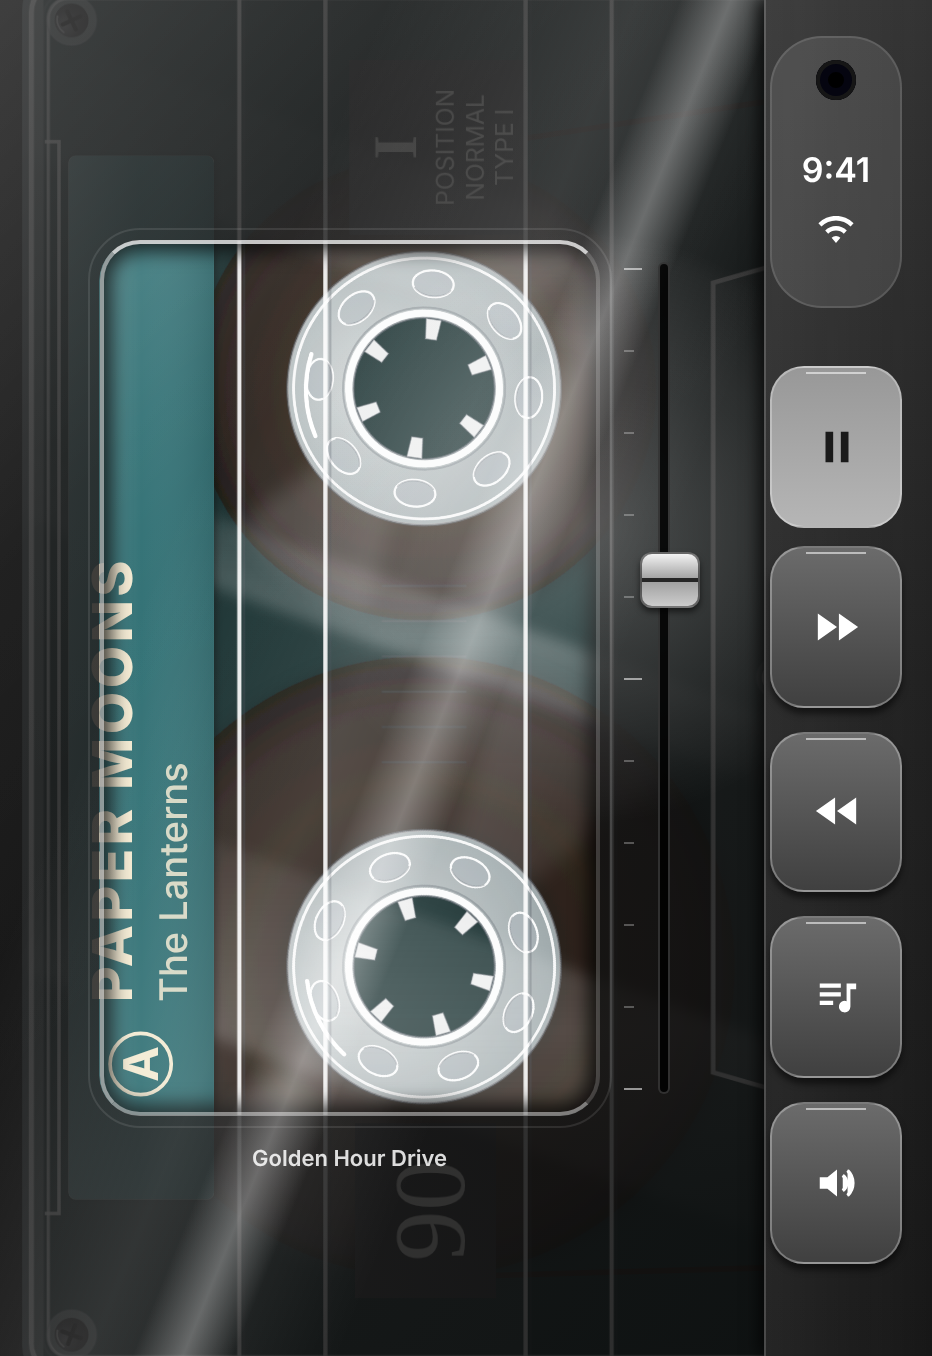
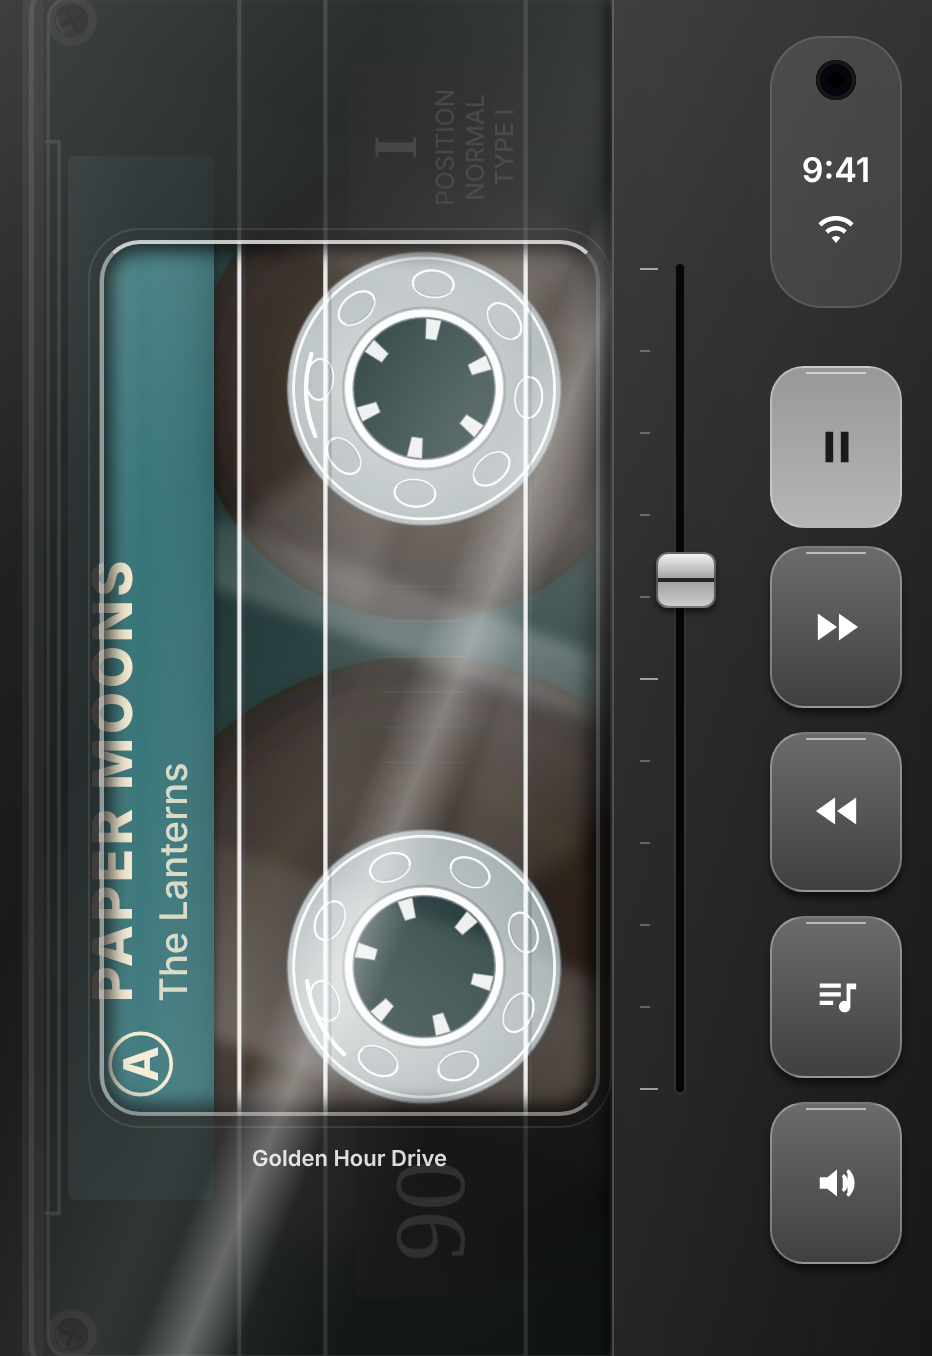
Widen the solid panel to carry the volume fader
The panel now starts just past the tape window, with the fader on it
beside the keys.

Claude-Session: https://claude.ai/code/session_015CNmSEpanpmujmbPK8yXHv

Changed region(s): [[0.6223, 0.0, 0.8401, 0.8053], [0.809, 0.5575, 0.8401, 0.7434]]

diff --git a/TapeDeck/DeckView.swift b/TapeDeck/DeckView.swift
@@ -38,6 +38,10 @@ struct DeckView: View {
             let full = CGSize(width: geo.size.width + insets.leading + insets.trailing,
                               height: geo.size.height + insets.top + insets.bottom)
             let window = windowRect(in: full)
+            // The solid side of the case starts just past the tape window and
+            // runs to the edge, so it carries the volume fader and the keys.
+            let column = rail ? max(insets.leading, insets.trailing) : stripWidth + insets.trailing
+            let panelWidth = max(column, railLeading ? window.minX - 6 : full.width - window.maxX - 6)
             HStack(spacing: 0) {
                 if railLeading { keyColumn(insets: insets, rail: true, leading: true) }
                 // The face itself is drawn in the background, full screen.
@@ -58,6 +62,9 @@ struct DeckView: View {
                     Color(white: 0.03)
                     tapeUnderCasing
                     clearCase
+                    casePanel(seamOnLeading: !railLeading)
+                        .frame(width: panelWidth)
+                        .frame(maxWidth: .infinity, alignment: railLeading ? .leading : .trailing)
                 }
             )
             // Under the window: the song that is playing on an album tape
@@ -75,11 +82,11 @@ struct DeckView: View {
                         .allowsHitTesting(false)
                 }
             }
-            // Volume: beside the window and exactly as tall as it is
+            // Volume: on the solid panel, level with the window and as tall as it
             .overlay(alignment: .topLeading) {
                 VolumeFader(volume: volume)
                     .frame(width: 40, height: window.height)
-                    .offset(x: railLeading ? window.minX - 52 : window.maxX + 12, y: window.minY)
+                    .offset(x: railLeading ? panelWidth - 54 : full.width - panelWidth + 14, y: window.minY)
             }
             .ignoresSafeArea()
         }
@@ -250,8 +257,9 @@ struct DeckView: View {
         min(bigKeyHeight, max(40, (room - 4 * keyGap) / 5))
     }
 
-    /// The side of the player that carries the keys: solid plastic, not see
-    /// through, with a seam where it meets the clear part of the case.
+    /// The side of the player that carries the volume fader and the keys:
+    /// solid plastic, not see through, with a seam where it meets the clear
+    /// part of the case.
     private func casePanel(seamOnLeading: Bool) -> some View {
         ZStack(alignment: seamOnLeading ? .leading : .trailing) {
             LinearGradient(colors: [Color(white: 0.20), Color(white: 0.13), Color(white: 0.09)],
@@ -283,7 +291,6 @@ struct DeckView: View {
                 .padding(.trailing, leading ? inner : railOuterMargin)
             }
             .frame(width: width)
-            .background(casePanel(seamOnLeading: !leading))
         } else {
             GeometryReader { geo in
                 let room = geo.size.height - insets.top - insets.bottom - 24
@@ -299,7 +306,6 @@ struct DeckView: View {
                 .frame(width: stripWidth + insets.trailing, height: geo.size.height)
             }
             .frame(width: stripWidth + insets.trailing)
-            .background(casePanel(seamOnLeading: true))
         }
     }
 }

diff --git a/README.md b/README.md
@@ -6,7 +6,7 @@ A cassette player for Apple Music. Your playlists and albums are tapes on a shel
 
 * Plays your Apple Music library and anything from the Apple Music catalogue (MusicKit).
 * Closed phone (or any ordinary phone screen): the whole screen is the body of a tape player with the cassette inside it. The cassette is as large as the screen allows and runs underneath the body and the keys. The smoked casing covers most of it, dimly showing what is underneath, and a clear window over the label and reels shows the tape itself. Colours are neutral throughout: greys, black and off-white. Glare on the body moves only when the phone moves: reflections slide as it tilts left and right, and a hot spot follows both tilts.
-* Built for the iPhone Duo's outer display, 466 x 678 points. iOS reserves an 84 point column down one side for the camera, clock and status icons; five large keys (play/pause, fast forward, rewind, tape library, mute) sit in that column underneath them, on a solid plastic panel that is not see-through. There is no stop key: pause stops the music and keeps your place. On other phones the keys get their own strip. A vertical volume fader stands beside the tape window, exactly as tall as it. It sets the phone's volume and follows the side buttons.
+* Built for the iPhone Duo's outer display, 466 x 678 points. iOS reserves an 84 point column down one side for the camera, clock and status icons; five large keys (play/pause, fast forward, rewind, tape library, mute) sit in that column underneath them, on a solid plastic panel that is not see-through. There is no stop key: pause stops the music and keeps your place. On other phones the keys get their own strip. The solid panel starts just past the tape window, and a vertical volume fader stands on it beside the keys, exactly as tall as the window. It sets the phone's volume and follows the side buttons.
 * Haptics: a firm tap when a key goes down, a lighter one when it springs back, a heavy thud for the cassette door, and a soft pulse four times a second while the tape winds.
 * The cassette is a clear one. The shell front is see-through artwork (bright moulded edges and ridges, stickers, a stick-on paper label, guide rollers, black screws, reflections). Under it the whole reels, their clear hubs, the tape running down to the rollers and the handwriting on the label are drawn live. The artwork source is `tools/cassette-art.html`; `node tools/render-art.js` re-renders it.
 * Open phone (a large, wide screen): the tape shelf on the left and the chosen tape on the right. The shelf shows each playlist and album as a cassette spine: an off-white card with the name handwritten on it and a grey band. Pick a tape, then close the phone to start it playing. The keys are there too, for screens that cannot fold.
